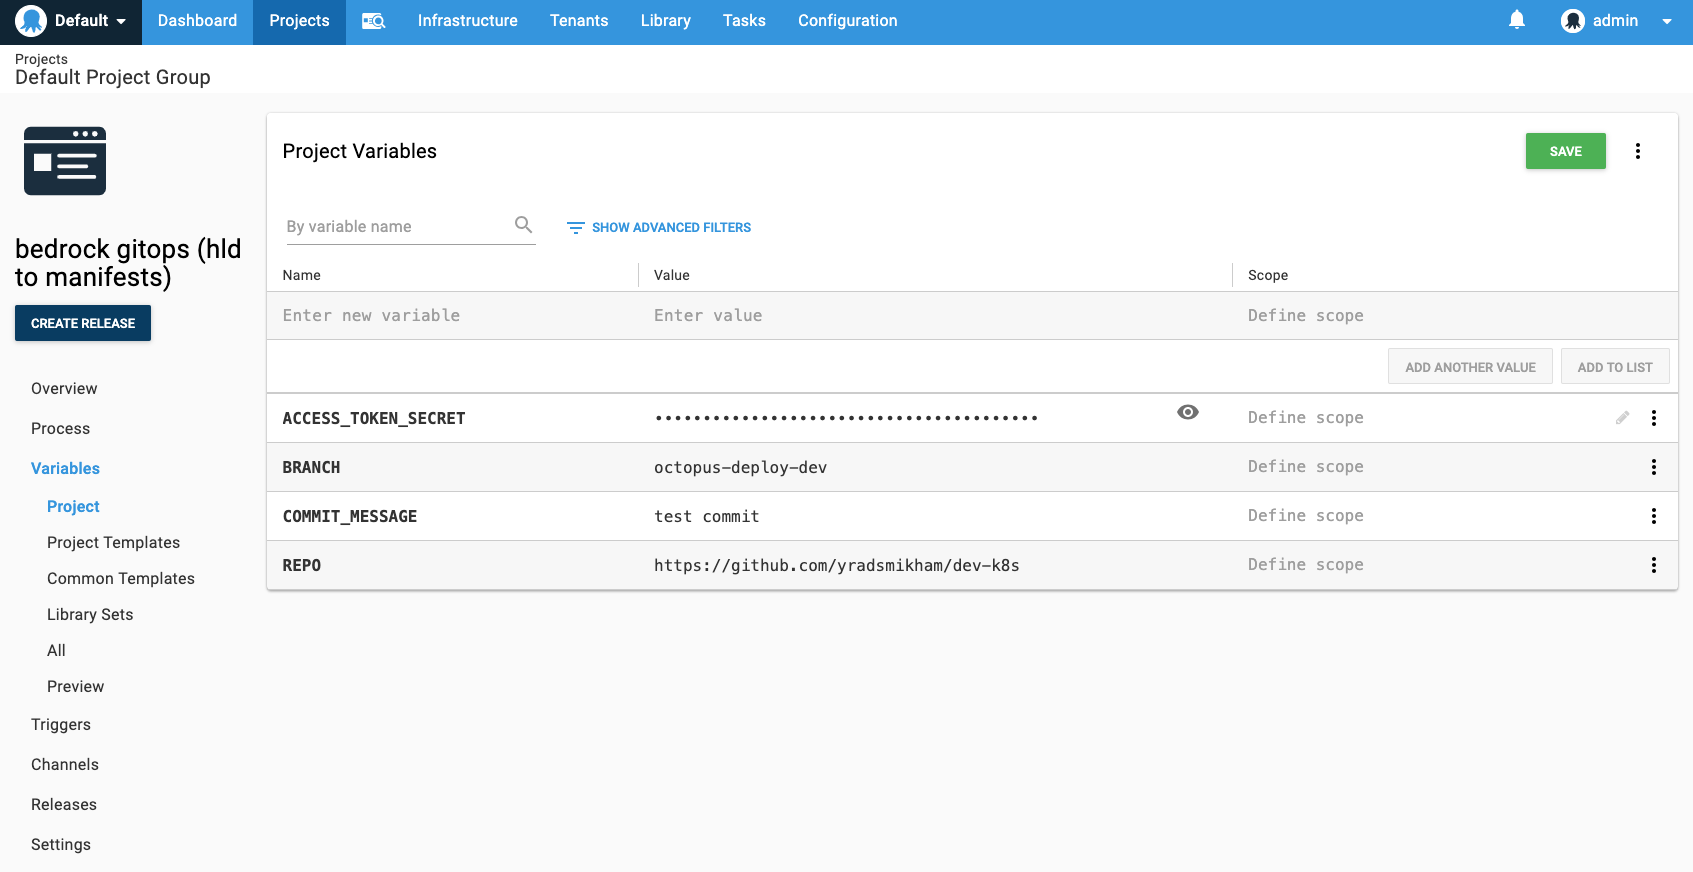
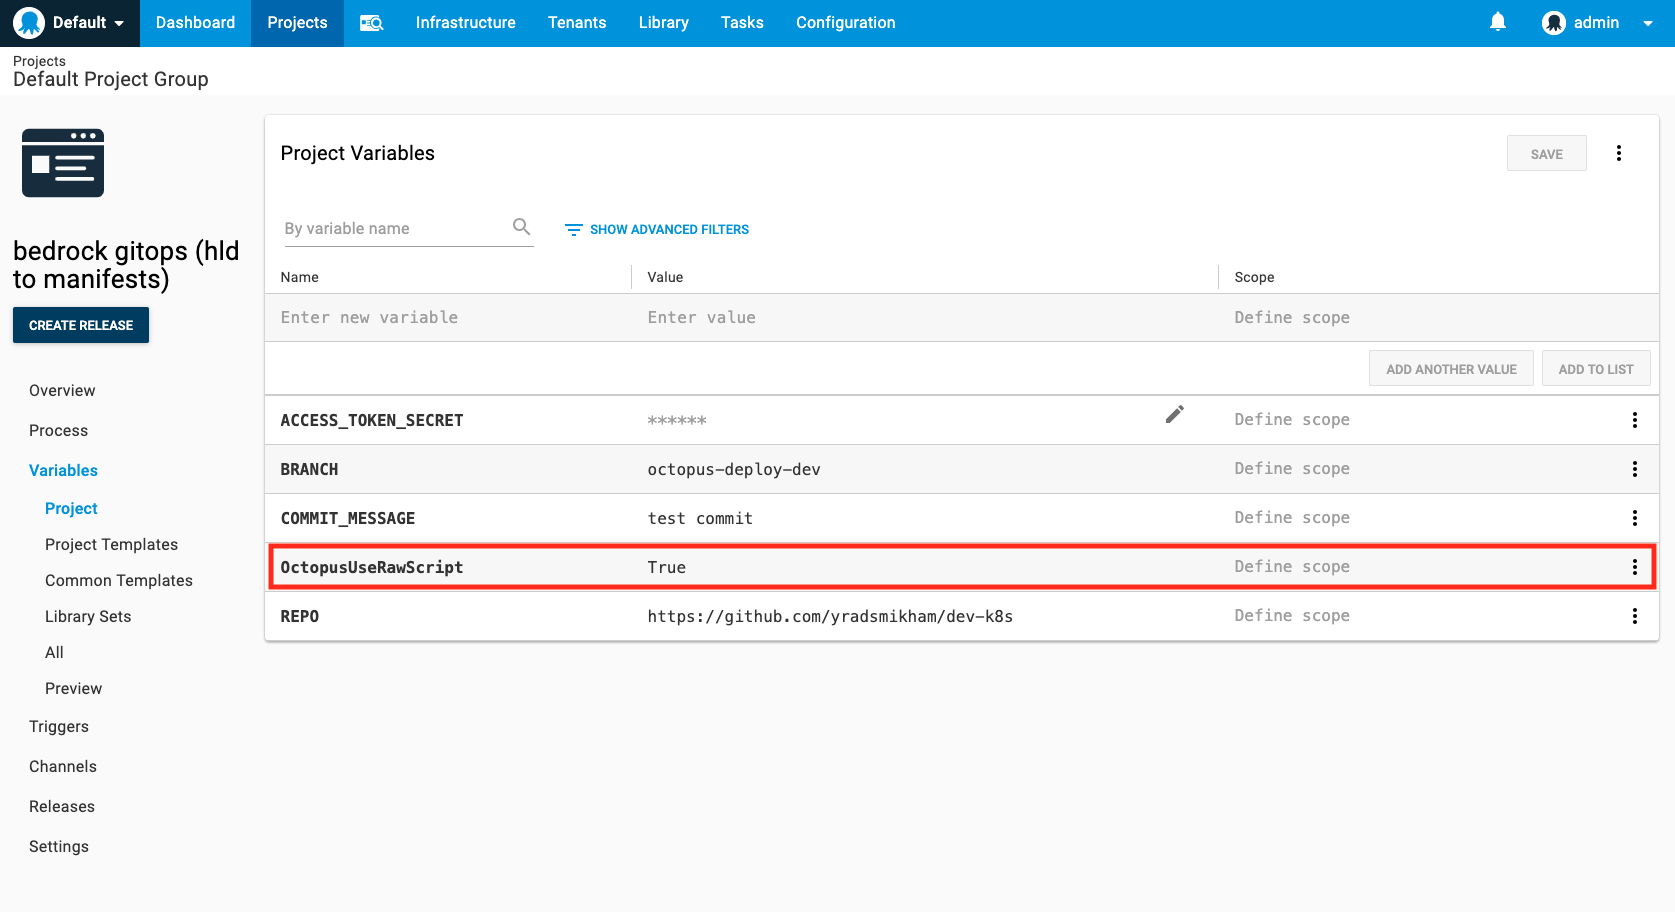
revised documentation to include "Raw Scripting"

diff --git a/gitops/octopus/OctopusDeploy.md b/gitops/octopus/OctopusDeploy.md
@@ -1,6 +1,6 @@
 # Octopus Deploy
 
-Octopus Deploy, an automated deployment and release management tool, has been tested against the Bedrock GitOps workflow. There are many differences between using Octopus Deploy as opposed to Azure DevOps. This README will assist in getting you started on installing, configuring, and deploying a Release on an Octopus Server hosted in Azure.
+Octopus Deploy, an automated deployment and release management tool, has been tested against the [manifest generation pipeline](../azure-devops/ManifestGeneration.md) of the Bedrock GitOps workflow. There are many differences between using Octopus Deploy as opposed to Azure DevOps. This README will assist in getting you started on installing, configuring, and deploying a Release on an Octopus Server hosted in Azure.
 
 ## Getting Started
 
@@ -117,20 +117,32 @@ Be sure that the connection health is in good standing before deploying your Rel
 
 4. Define your deployment process.
 
-Add a new step that will call a bash script. In this section, you will use the `build.sh` script from [Microsoft/Bedrock](https://github.com/Microsoft/bedrock/blob/master/gitops/azure-devops/build.sh). Minor additions need to be made to `build.sh` because Octopus Deploy has a unique way of defining and using [environment variables](https://octopus.com/docs/deployment-examples/custom-scripts/using-variables-in-scripts) for different scripting languages.
-
-Append the following lines to the `build.sh`:
+Add a new step that will call a bash script. In this section, you will use the `build.sh` script from [Microsoft/Bedrock](https://github.com/Microsoft/bedrock/blob/master/gitops/azure-devops/build.sh). This `Inline Source Code` should do a few things: (1) define Environment Variables that are translatable in Octopus Deploy (2) ensure that the Deployment Target is "reset" for the Release deployment by removing all Fabrikate remnants from previous runs (3) download the `build.sh` and execute it.
 
 ```
-ACCESS_TOKEN_SECRET=$(get_octopusvariable "ACCESS_TOKEN_SECRET")
-REPO=$(get_octopusvariable "REPO")
-BRANCH_NAME=$(get_octopusvariable "BRANCH_NAME")
-COMMIT_MESSAGE=$(get_octopusvariable "COMMIT MESSAGE")
+#!/bin/bash
+
+#Define Environment Variables
+
+ACCESS_TOKEN_SECRET=#{ACCESS_TOKEN_SECRET}
+REPO=#{REPO}
+BRANCH=#{BRANCH}
+COMMIT_MESSAGE=#{COMMIT_MESSAGE}
+
+# Remove Fabrikate
+rm -rf fab*
+
+# Download build.sh
+curl https://raw.githubusercontent.com/Microsoft/bedrock/master/gitops/azure-devops/build.sh > build.sh
+chmod +x ./build.sh
+. build.sh
 ```
 
 Under `Variables`, be sure to define the variables as shown:
 
 ![Define Project Variables](images/octo-env-variables.png)
+
+It is important to enable [Raw Octopus](https://octopus.com/blog/trying-raw-octopus), or "Raw Scripting" for this pipeline because it is a default configuration to have deployments run [Calamari](https://octopus.com/docs/api-and-integration/calamari) when using Octopus Deploy, and this will interfere with "resetting" the Deployment Target. For this reason, raw scripting is used to allow the script steps to execute directly through the opened SSH connection without any extra wrapping or bootstrapping that comes naturally with Octopus. To do this, it is important to add the variable `OctopusUseRawScript` and set it to `True`.
 
 ### 5. Deploy
 
@@ -154,11 +166,7 @@ After your Release is finished running, you can view the results and logs of the
 
 **NOTE**: The Fabrikate logs along with other logs from `build.sh` will show up as error logs in Octopus Deploy. This is miscontrued.
 
-## Caveats
-
-- You will need to "reset" your Linux VM to remove all Fabrikate remnants before deploying the next release. This will conflict with an existing Fabrikate executable that exists from a previous run. This is because the `build.sh` currently assumes that each build/release will run on a clean slate. This is **not** the case when using Octopus Deploy.
-
-## Disadvantages
+## Challenges with Octopus Deploy
 
 - There is **less automation** when using Octopus Deploy in place of Azure DevOps.
     - Octopus Deploy requires that users provide their own resources, or Deployment Targets. Even though this could most likely be automated _outside_ of Octopus, this is still an additional step that is mandatory.
